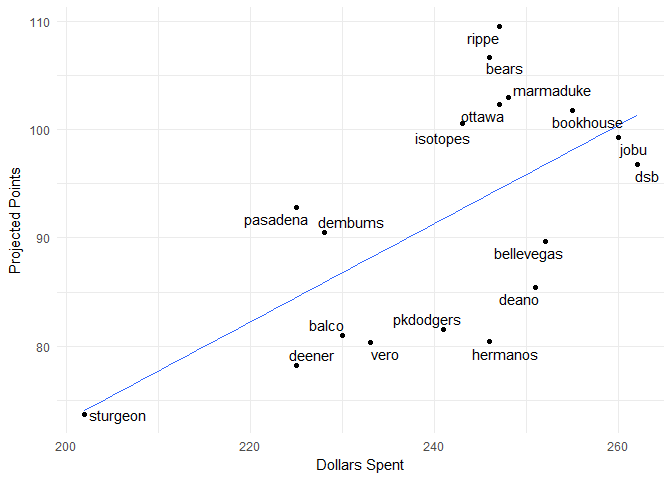
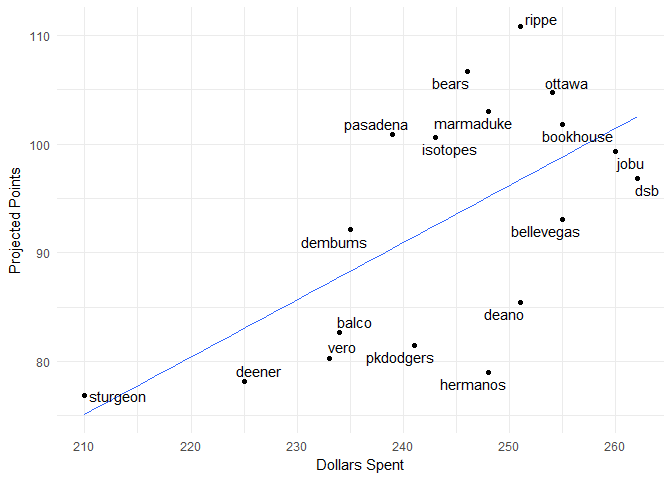
more picks and corrected correa error

diff --git a/draftguide.md b/draftguide.md
@@ -4,48 +4,48 @@ Fantasy 2018
 #### Current Standings
 
     ##     team_name spent left picks.left total_points hit.points pitch.points
-    ## 1       rippe   247   13          7        109.5       72.9         36.6
+    ## 1       rippe   251    9          6        110.8       72.9         37.9
     ## 2       bears   246   14          5        106.7       71.3         35.4
-    ## 3   marmaduke   248   12          7        103.0       66.0         37.0
-    ## 4      ottawa   247   13          2        102.3       60.4         41.9
+    ## 3      ottawa   254    6          1        104.7       60.4         44.3
+    ## 4   marmaduke   248   12          7        103.0       66.0         37.0
     ## 5   bookhouse   255    5          1        101.8       55.6         46.2
-    ## 6    isotopes   243   17          5        100.6       61.4         39.2
-    ## 7        jobu   260    0          0         99.3       46.1         53.2
-    ## 8         dsb   262   -2          9         96.8       60.5         36.3
-    ## 9    pasadena   225   35          9         92.8       63.5         29.3
-    ## 10    dembums   228   32         11         90.5       57.3         33.2
-    ## 11 bellevegas   252    8          4         89.7       50.8         38.9
+    ## 6    pasadena   239   21          8        100.9       71.6         29.3
+    ## 7    isotopes   243   17          5        100.6       61.4         39.2
+    ## 8        jobu   260    0          0         99.3       46.1         53.2
+    ## 9         dsb   262   -2          9         96.8       60.5         36.3
+    ## 10 bellevegas   255    5          3         93.1       54.2         38.9
+    ## 11    dembums   235   25         10         92.1       57.3         34.8
     ## 12      deano   251    9          9         85.4       46.0         39.4
-    ## 13  pkdodgers   241   19          1         81.5       42.1         39.4
-    ## 14      balco   230   30          5         81.0       47.5         33.5
-    ## 15   hermanos   246   14          8         80.4       44.0         36.4
-    ## 16       vero   233   27          6         80.3       41.5         38.8
+    ## 13      balco   234   26          3         82.7       48.8         33.9
+    ## 14  pkdodgers   241   19          1         81.5       42.1         39.4
+    ## 15       vero   233   27          6         80.3       41.5         38.8
+    ## 16   hermanos   248   12          7         79.0       44.0         35.0
     ## 17     deener   225   35          2         78.2       45.3         32.9
-    ## 18   sturgeon   202   58          9         73.7       36.8         36.9
+    ## 18   sturgeon   210   50          8         76.9       36.8         40.1
 
 #### Top Remaining Pitchers
 
     ##                name         Team  IP  ERA WHIP   K SV  W  pts  dlr
     ## 1      Brad Ziegler      Marlins  65 4.32 1.49  41 29  3 2.97 8.17
     ## 2    Brad Boxberger Diamondbacks  65 4.06 1.35  75 21  3 2.95 8.11
-    ## 3    Dinelson Lamet       Padres 140 4.14 1.32 159  0  8 2.50 6.88
-    ## 4      Tyler Skaggs       Angels 154 4.21 1.34 140  0 10 2.37 6.53
-    ## 5   Clayton Richard       Padres 191 3.94 1.39 142  0 10 2.22 6.10
-    ## 6     Marco Estrada    Blue Jays 183 4.80 1.34 160  0 11 2.20 6.07
-    ## 7       Dan Straily      Marlins 182 4.61 1.33 164  0  9 2.14 5.89
-    ## 8      Nick Pivetta     Phillies 157 4.52 1.35 158  0  9 2.02 5.56
-    ## 9      Jose De Leon         Rays 137 4.37 1.32 145  0  8 1.96 5.39
-    ## 10     Jaime Garcia         <NA> 168 4.30 1.37 136  0 10 1.86 5.13
-    ## 11      Juan Minaya    White Sox  65 4.74 1.44  64 20  3 1.86 5.11
-    ## 12      Ryan Madson    Nationals  65 3.33 1.21  68  9  4 1.86 5.11
-    ## 13       Jake Faria         Rays 139 4.28 1.34 140  0  8 1.78 4.91
-    ## 14      Jakob Junis       Royals 171 4.68 1.32 141  0  9 1.70 4.67
-    ## 15   Tyler Anderson      Rockies 144 4.38 1.35 132  0  9 1.68 4.61
-    ## 16      John Lackey         <NA> 172 4.81 1.34 143  0 10 1.63 4.48
-    ## 17   Jerad Eickhoff     Phillies 159 4.74 1.34 141  0  9 1.48 4.07
-    ## 18 Mike Foltynewicz       Braves 150 4.40 1.36 141  0  8 1.47 4.06
-    ## 19        Ivan Nova      Pirates 165 4.40 1.34 121  0  9 1.45 4.00
-    ## 20  Mike Montgomery         Cubs 156 4.23 1.41 128  0 10 1.45 4.00
+    ## 3      Tyler Skaggs       Angels 154 4.21 1.34 140  0 10 2.37 6.53
+    ## 4   Clayton Richard       Padres 191 3.94 1.39 142  0 10 2.22 6.10
+    ## 5     Marco Estrada    Blue Jays 183 4.80 1.34 160  0 11 2.20 6.07
+    ## 6       Dan Straily      Marlins 182 4.61 1.33 164  0  9 2.14 5.89
+    ## 7      Nick Pivetta     Phillies 157 4.52 1.35 158  0  9 2.02 5.56
+    ## 8      Jose De Leon         Rays 137 4.37 1.32 145  0  8 1.96 5.39
+    ## 9      Jaime Garcia         <NA> 168 4.30 1.37 136  0 10 1.86 5.13
+    ## 10      Juan Minaya    White Sox  65 4.74 1.44  64 20  3 1.86 5.11
+    ## 11      Ryan Madson    Nationals  65 3.33 1.21  68  9  4 1.86 5.11
+    ## 12      Jakob Junis       Royals 171 4.68 1.32 141  0  9 1.70 4.67
+    ## 13   Tyler Anderson      Rockies 144 4.38 1.35 132  0  9 1.68 4.61
+    ## 14      John Lackey         <NA> 172 4.81 1.34 143  0 10 1.63 4.48
+    ## 15   Jerad Eickhoff     Phillies 159 4.74 1.34 141  0  9 1.48 4.07
+    ## 16 Mike Foltynewicz       Braves 150 4.40 1.36 141  0  8 1.47 4.06
+    ## 17        Ivan Nova      Pirates 165 4.40 1.34 121  0  9 1.45 4.00
+    ## 18  Mike Montgomery         Cubs 156 4.23 1.41 128  0 10 1.45 4.00
+    ## 19 Santiago Casilla    Athletics  65 4.52 1.37  59 16  3 1.43 3.93
+    ## 20   Chris Stratton       Giants 154 4.17 1.39 124  0  9 1.36 3.76
 
 #### Top Remaining Hitters
 
@@ -57,19 +57,19 @@ Fantasy 2018
     ## 5  Cheslor Cuthbert       Royals 651 71 18  73  3 0.261 4.54 12.50
     ## 6     Yasmany Tomas Diamondbacks 525 63 24  76  3 0.262 4.41 12.15
     ## 7     Mikie Mahtook       Tigers 630 73 17  70  8 0.257 4.36 11.99
-    ## 8      Hunter Pence       Giants 595 65 18  72  4 0.263 4.00 11.01
-    ## 9     Jose Iglesias       Tigers 595 63  7  57 11 0.274 3.97 10.94
-    ## 10   Derek Dietrich      Marlins 617 72 18  71  3 0.251 3.95 10.86
-    ## 11 Asdrubal Cabrera         Mets 595 68 18  66  4 0.260 3.92 10.78
-    ## 12     Brandon Moss       Royals 595 71 30  83  3 0.228 3.82 10.52
-    ## 13     Steve Pearce    Blue Jays 539 66 22  73  2 0.256 3.75 10.33
-    ## 14      Jose Pirela       Padres 560 61 15  62 10 0.262 3.72 10.23
-    ## 15        Joe Panik       Giants 581 70 10  57  4 0.279 3.70 10.17
-    ## 16     Devon Travis    Blue Jays 455 59 12  51  7 0.280 3.51  9.68
-    ## 17     Jason Castro        Twins 576 65 15  63  2 0.232 3.49  9.61
-    ## 18 Cory Spangenberg       Padres 555 57 12  56 12 0.256 3.43  9.44
-    ## 19     Martin Prado      Marlins 560 60 11  57  2 0.276 3.40  9.35
-    ## 20   Mitch Moreland      Red Sox 595 72 22  78  1 0.251 3.33  9.17
+    ## 8     Jose Iglesias       Tigers 595 63  7  57 11 0.274 3.97 10.94
+    ## 9    Derek Dietrich      Marlins 617 72 18  71  3 0.251 3.95 10.86
+    ## 10 Asdrubal Cabrera         Mets 595 68 18  66  4 0.260 3.92 10.78
+    ## 11     Brandon Moss       Royals 595 71 30  83  3 0.228 3.82 10.52
+    ## 12     Steve Pearce    Blue Jays 539 66 22  73  2 0.256 3.75 10.33
+    ## 13      Jose Pirela       Padres 560 61 15  62 10 0.262 3.72 10.23
+    ## 14        Joe Panik       Giants 581 70 10  57  4 0.279 3.70 10.17
+    ## 15     Devon Travis    Blue Jays 455 59 12  51  7 0.280 3.51  9.68
+    ## 16     Jason Castro        Twins 576 65 15  63  2 0.232 3.49  9.61
+    ## 17 Cory Spangenberg       Padres 555 57 12  56 12 0.256 3.43  9.44
+    ## 18     Martin Prado      Marlins 560 60 11  57  2 0.276 3.40  9.35
+    ## 19   Mitch Moreland      Red Sox 595 72 22  78  1 0.251 3.33  9.17
+    ## 20      Jorge Soler       Royals 574 67 24  73  2 0.242 3.29  9.07
 
 #### Top Remaining C
 
@@ -101,49 +101,49 @@ Fantasy 2018
     ## 1       Raimel Tapia      Rockies 490 55  9  53 16 0.292 4.83 13.29
     ## 2      Yasmany Tomas Diamondbacks 525 63 24  76  3 0.262 4.41 12.15
     ## 3      Mikie Mahtook       Tigers 630 73 17  70  8 0.257 4.36 11.99
-    ## 4       Hunter Pence       Giants 595 65 18  72  4 0.263 4.00 11.01
-    ## 5       Brandon Moss       Royals 595 71 30  83  3 0.228 3.82 10.52
-    ## 6       Steve Pearce    Blue Jays 539 66 22  73  2 0.256 3.75 10.33
-    ## 7        Jose Pirela       Padres 560 61 15  62 10 0.262 3.72 10.23
-    ## 8        Jorge Soler       Royals 574 67 24  73  2 0.242 3.29  9.07
-    ## 9        Alex Gordon       Royals 616 66 17  65  8 0.238 2.92  8.04
-    ## 10        Adam Engel    White Sox 595 63 12  54 24 0.209 2.25  6.19
-    ## 11     Melky Cabrera         <NA> 420 47  9  49  1 0.285 2.25  6.18
-    ## 12        Seth Smith         <NA> 490 62 16  55  2 0.252 2.20  6.06
-    ## 13     Leonys Martin       Tigers 420 46  9  42 18 0.247 1.95  5.37
-    ## 14     Paulo Orlando       Royals 490 48  8  46  9 0.261 1.73  4.76
-    ## 15     Gerardo Parra      Rockies 371 41  8  43  5 0.277 1.68  4.64
-    ## 16     Matt Holliday         <NA> 420 48 16  54  1 0.249 1.26  3.48
-    ## 17     Jose Martinez    Cardinals 277 33  8  36  3 0.285 1.20  3.31
-    ## 18       Denard Span         Rays 371 45  7  33  9 0.266 1.20  3.30
-    ## 19     Brandon Drury Diamondbacks 380 41 11  47  2 0.267 1.16  3.18
-    ## 20 Enrique Hernandez      Dodgers 473 51 14  54  4 0.236 0.91  2.51
+    ## 4       Brandon Moss       Royals 595 71 30  83  3 0.228 3.82 10.52
+    ## 5       Steve Pearce    Blue Jays 539 66 22  73  2 0.256 3.75 10.33
+    ## 6        Jose Pirela       Padres 560 61 15  62 10 0.262 3.72 10.23
+    ## 7        Jorge Soler       Royals 574 67 24  73  2 0.242 3.29  9.07
+    ## 8        Alex Gordon       Royals 616 66 17  65  8 0.238 2.92  8.04
+    ## 9         Adam Engel    White Sox 595 63 12  54 24 0.209 2.25  6.19
+    ## 10     Melky Cabrera         <NA> 420 47  9  49  1 0.285 2.25  6.18
+    ## 11        Seth Smith         <NA> 490 62 16  55  2 0.252 2.20  6.06
+    ## 12     Leonys Martin       Tigers 420 46  9  42 18 0.247 1.95  5.37
+    ## 13     Paulo Orlando       Royals 490 48  8  46  9 0.261 1.73  4.76
+    ## 14     Gerardo Parra      Rockies 371 41  8  43  5 0.277 1.68  4.64
+    ## 15     Matt Holliday         <NA> 420 48 16  54  1 0.249 1.26  3.48
+    ## 16     Jose Martinez    Cardinals 277 33  8  36  3 0.285 1.20  3.31
+    ## 17       Denard Span         Rays 371 45  7  33  9 0.266 1.20  3.30
+    ## 18     Brandon Drury Diamondbacks 380 41 11  47  2 0.267 1.16  3.18
+    ## 19 Enrique Hernandez      Dodgers 473 51 14  54  4 0.236 0.91  2.51
+    ## 20      Derek Fisher       Astros 308 43 12  40 10 0.244 0.91  2.51
 
 #### Dollars vs. projected points
 
 ![](draftguide_files/figure-markdown_github/unnamed-chunk-7-1.png)
 
     ## # A tibble: 18 x 4
-    ##       rowname total_points     value       delta
-    ##         <chr>        <dbl>     <dbl>       <dbl>
-    ##  1      rippe        109.5  94.51218  14.9878249
-    ##  2      bears        106.7  94.05771  12.6422931
-    ##  3   pasadena         92.8  84.51388   8.2861232
-    ##  4  marmaduke        103.0  94.96664   8.0333568
-    ##  5   isotopes        100.6  92.69430   7.9056974
-    ##  6     ottawa        102.3  94.51218   7.7878249
-    ##  7    dembums         90.5  85.87728   4.6227189
-    ##  8  bookhouse        101.8  98.14792   3.6520801
-    ##  9   sturgeon         73.7  74.06111  -0.3611104
-    ## 10       jobu         99.3 100.42026  -1.1202604
-    ## 11        dsb         96.8 101.32920  -4.5291966
-    ## 12      balco         81.0  86.78622  -5.7862173
-    ## 13     deener         78.2  84.51388  -6.3138768
-    ## 14 bellevegas         89.7  96.78452  -7.0845156
-    ## 15       vero         80.3  88.14962  -7.8496216
-    ## 16  pkdodgers         81.5  91.78537 -10.2853664
-    ## 17      deano         85.4  96.33005 -10.9300475
-    ## 18   hermanos         80.4  94.05771 -13.6577069
+    ##       rowname total_points     value      delta
+    ##         <chr>        <dbl>     <dbl>      <dbl>
+    ##  1      rippe        110.8  96.73699  14.063006
+    ##  2      bears        106.7  94.10161  12.598392
+    ##  3   pasadena        100.9  90.41207  10.487933
+    ##  4   isotopes        100.6  92.52038   8.079624
+    ##  5  marmaduke        103.0  95.15576   7.844238
+    ##  6     ottawa        104.7  98.31823   6.381774
+    ##  7    dembums         92.1  88.30376   3.796243
+    ##  8  bookhouse        101.8  98.84530   2.954697
+    ##  9   sturgeon         76.9  75.12683   1.773175
+    ## 10       jobu         99.3 101.48069  -2.180690
+    ## 11     deener         78.2  83.03298  -4.832985
+    ## 12      balco         82.7  87.77668  -5.076680
+    ## 13        dsb         96.8 102.53484  -5.734844
+    ## 14 bellevegas         93.1  98.84530  -5.745303
+    ## 15       vero         80.3  87.24960  -6.949603
+    ## 16  pkdodgers         81.5  91.46622  -9.966221
+    ## 17      deano         85.4  96.73699 -11.336994
+    ## 18   hermanos         79.0  95.15576 -16.155762
 
 #### Remaining Picks vs. projected points
 
@@ -164,3 +164,4 @@ Fantasy 2018
     ## 10          Mitch Keller pkdodgers not matched
     ## 11           Julio Urias     deano not matched
     ## 12    Fernando Tatis Jr.    ottawa not matched
+    ## 13      Yoshihisa Hirano  hermanos not matched
